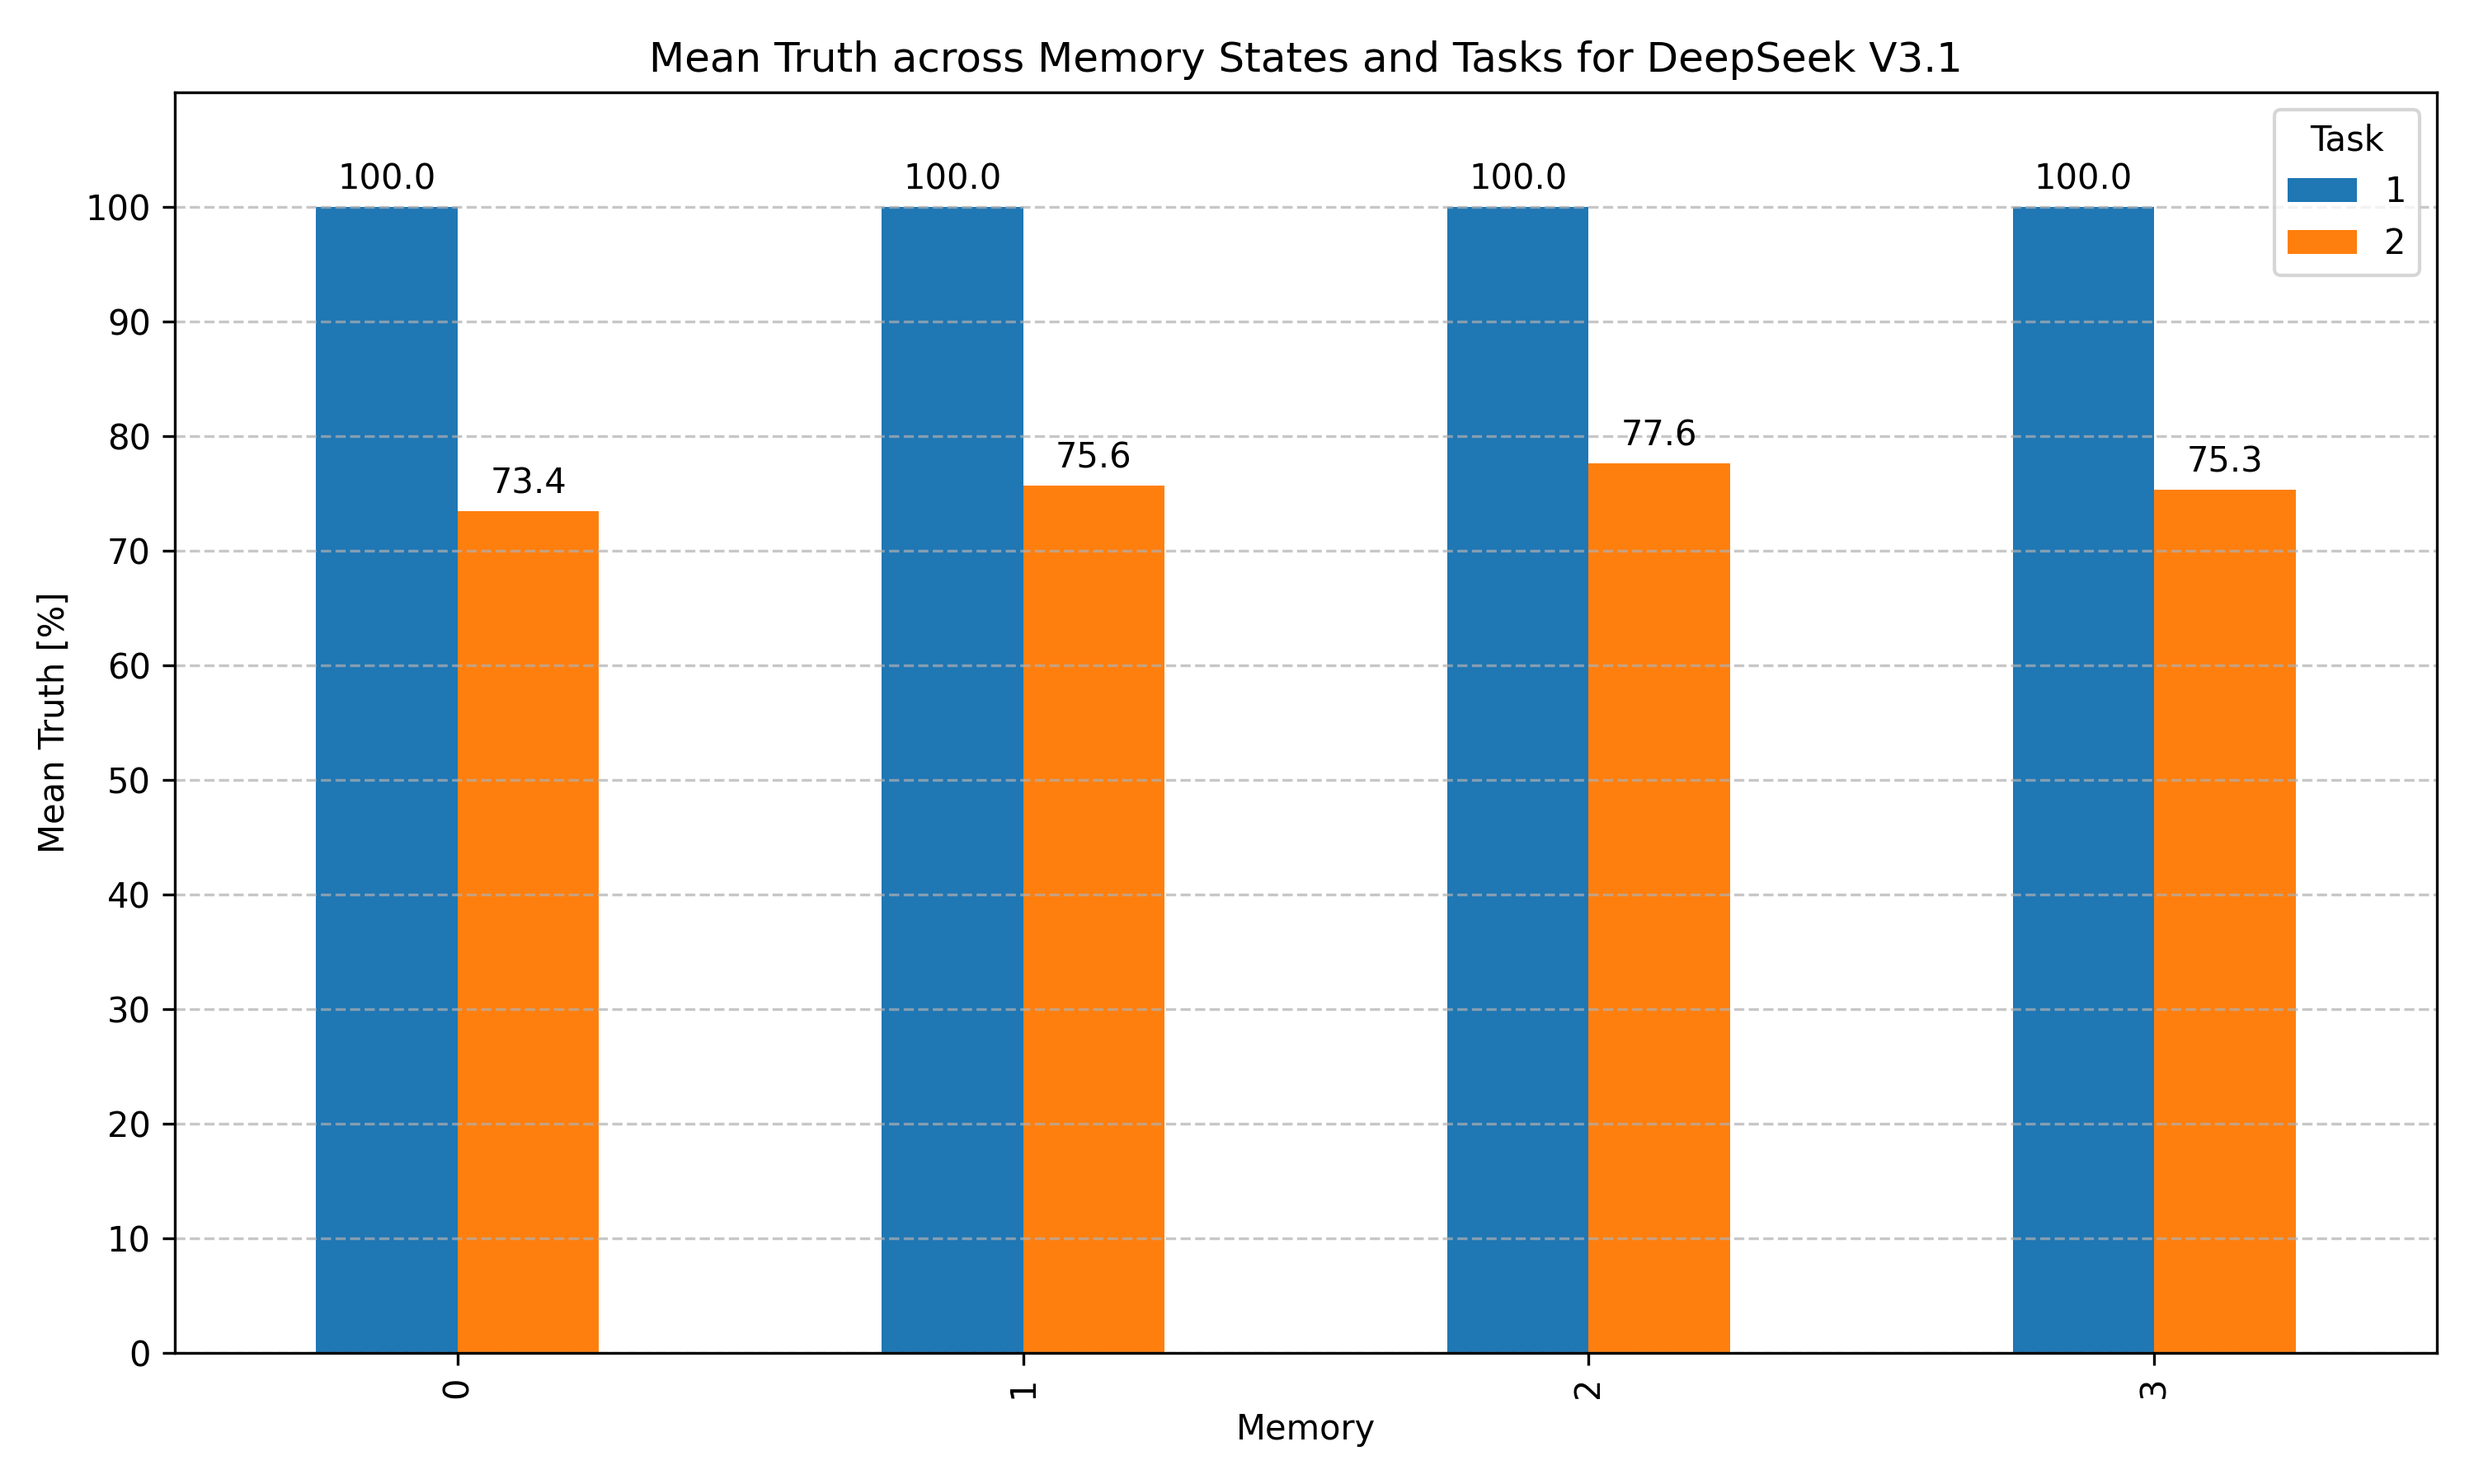
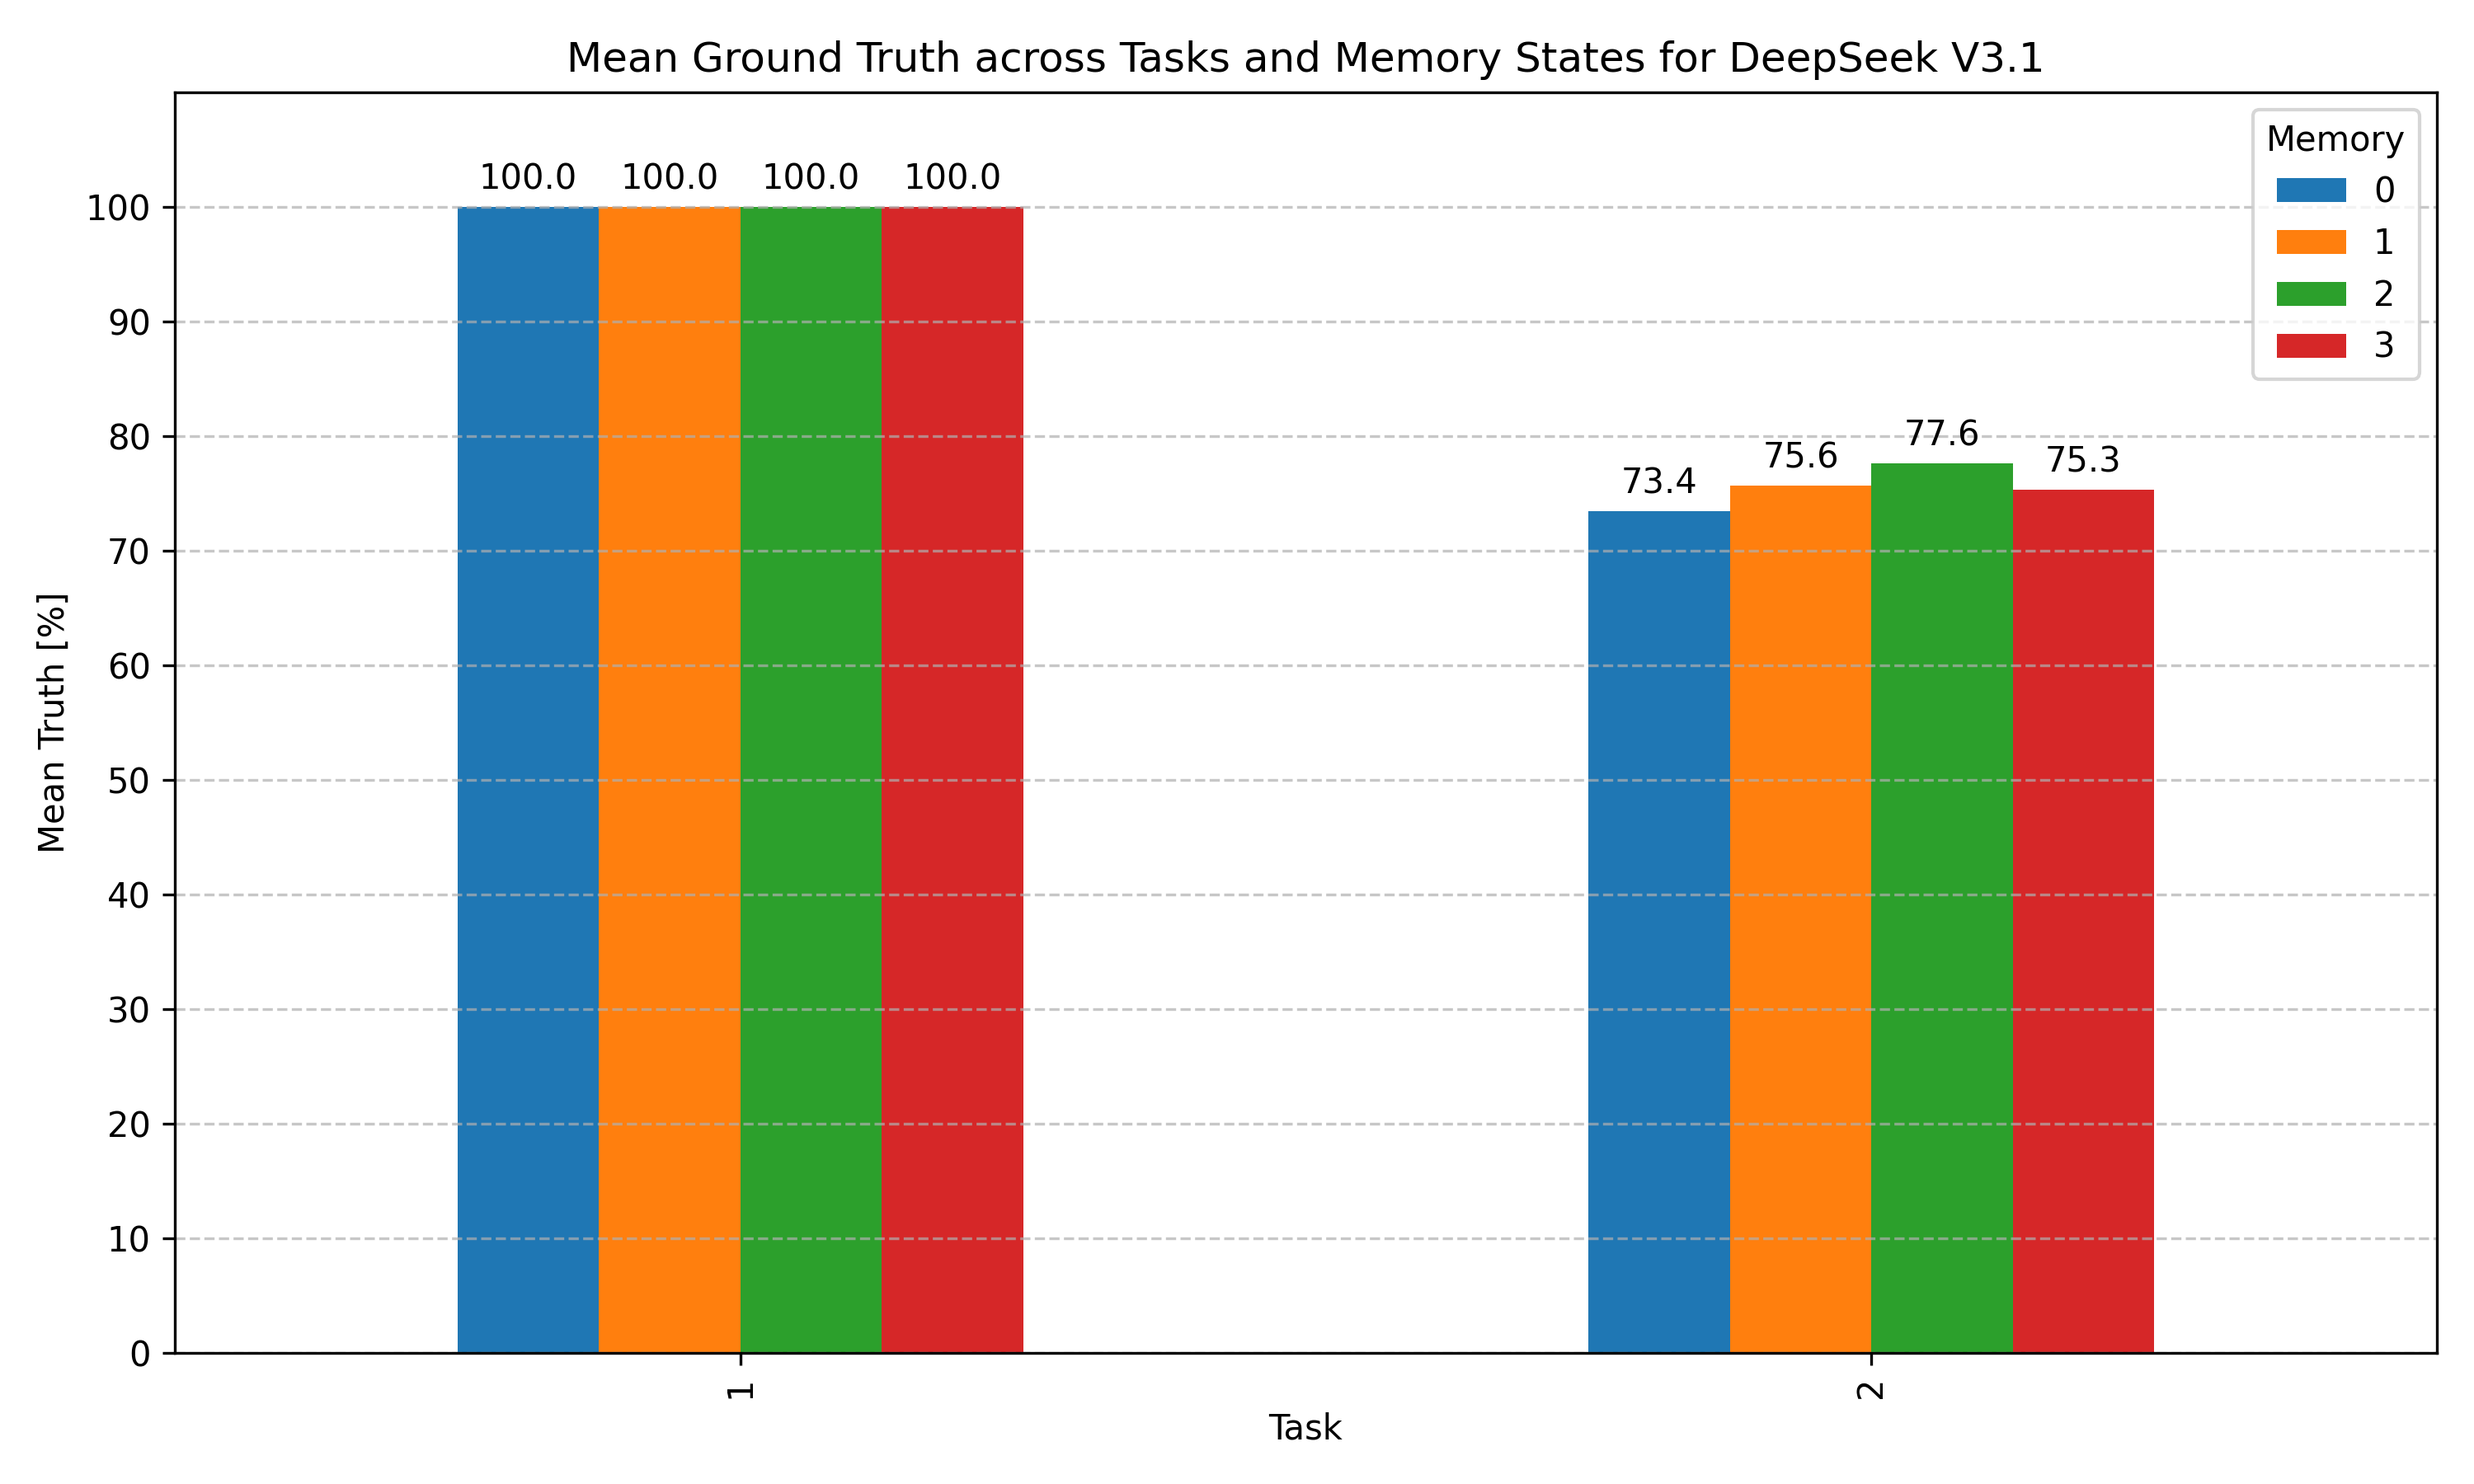
Update ground truth accuracy plots to be grouped by task first

diff --git a/plot_results.py b/plot_results.py
@@ -263,11 +263,11 @@ def generate_all_plots(dataframe):
     # Generate bar plots from the data - grouped by model
     for model_name, model_group in dataframe.groupby("Model"):
         print(f"Processing truth bar plots for Model: {model_name}")
-        create_bar_plot(model_group, "Truth", f"Mean Truth across Memory States and Tasks for {model_name}", 10, f"mean_truth_model_{model_name.replace(' ', '_')}.png", groupby_cols=["Memory", "Task"])
+        create_bar_plot(model_group, "Truth", f"Mean Ground Truth across Tasks and Memory States for {model_name}", 10, f"mean_truth_model_{model_name.replace(' ', '_')}.png", groupby_cols=["Task", "Memory"])
 
-    for model_name, model_group in filtered_df.groupby("Model"):
-        print(f"Processing accuracy bar plots for Model: {model_name}")
-        create_bar_plot(model_group, "Accuracy", f"Mean Accuracy across Memory States and Tasks for {model_name}", 10, f"mean_accuracy_model_{model_name.replace(' ', '_')}.png", groupby_cols=["Memory", "Task"])
+    # for model_name, model_group in filtered_df.groupby("Model"):
+    #     print(f"Processing accuracy bar plots for Model: {model_name}")
+    #     create_bar_plot(model_group, "Accuracy", f"Mean Accuracy across Tasks and Memory States for {model_name}", 10, f"mean_accuracy_model_{model_name.replace(' ', '_')}.png", groupby_cols=["Task", "Memory"])
 
     # Generate grouped boxplots and confusion heatmaps for each model
     for model_name, model_group in filtered_df.groupby("Model"):
